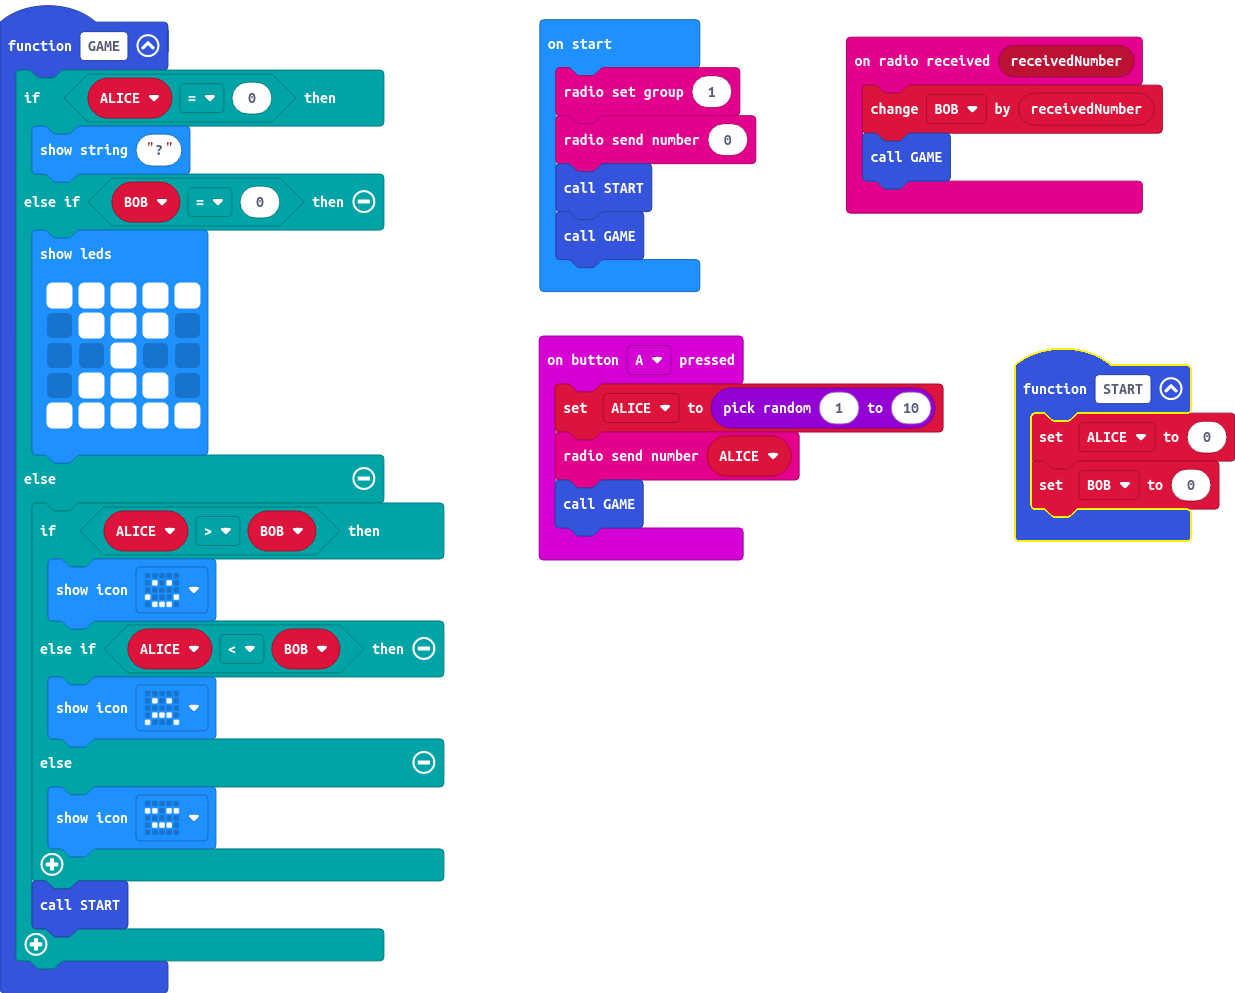
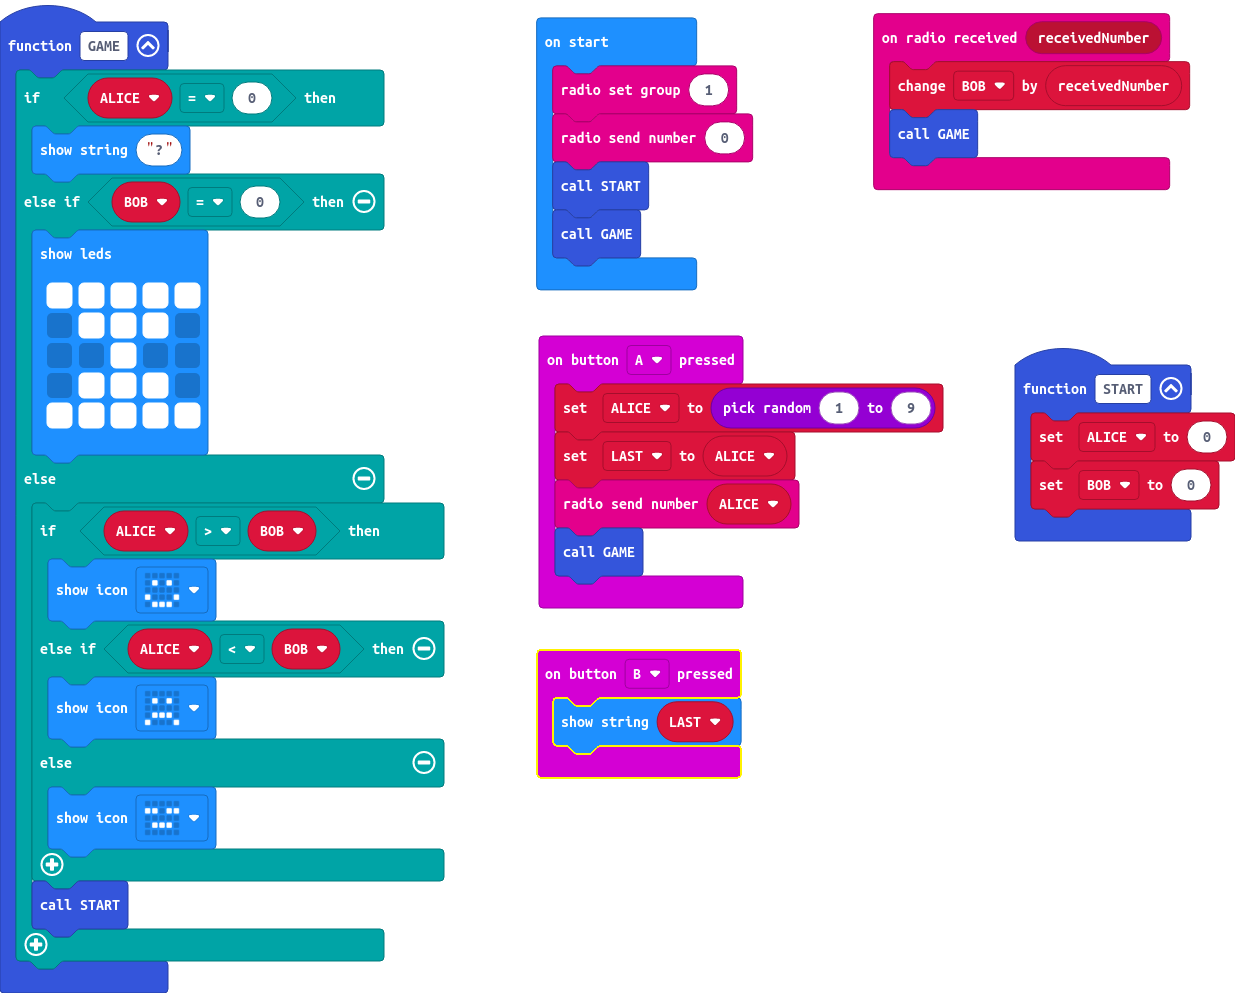
Add action for show number on press B

diff --git a/main.ts b/main.ts
@@ -3,7 +3,8 @@ radio.onReceivedNumber(function (receivedNumber) {
     GAME()
 })
 input.onButtonPressed(Button.A, function () {
-    ALICE = randint(1, 10)
+    ALICE = randint(1, 9)
+    LAST = ALICE
     radio.sendNumber(ALICE)
     GAME()
 })
@@ -11,6 +12,9 @@ function START () {
     ALICE = 0
     BOB = 0
 }
+input.onButtonPressed(Button.B, function () {
+    basic.showString("" + (LAST))
+})
 function GAME () {
     if (ALICE == 0) {
         basic.showString("?")
@@ -33,6 +37,7 @@ function GAME () {
         START()
     }
 }
+let LAST = 0
 let ALICE = 0
 let BOB = 0
 radio.setGroup(1)
